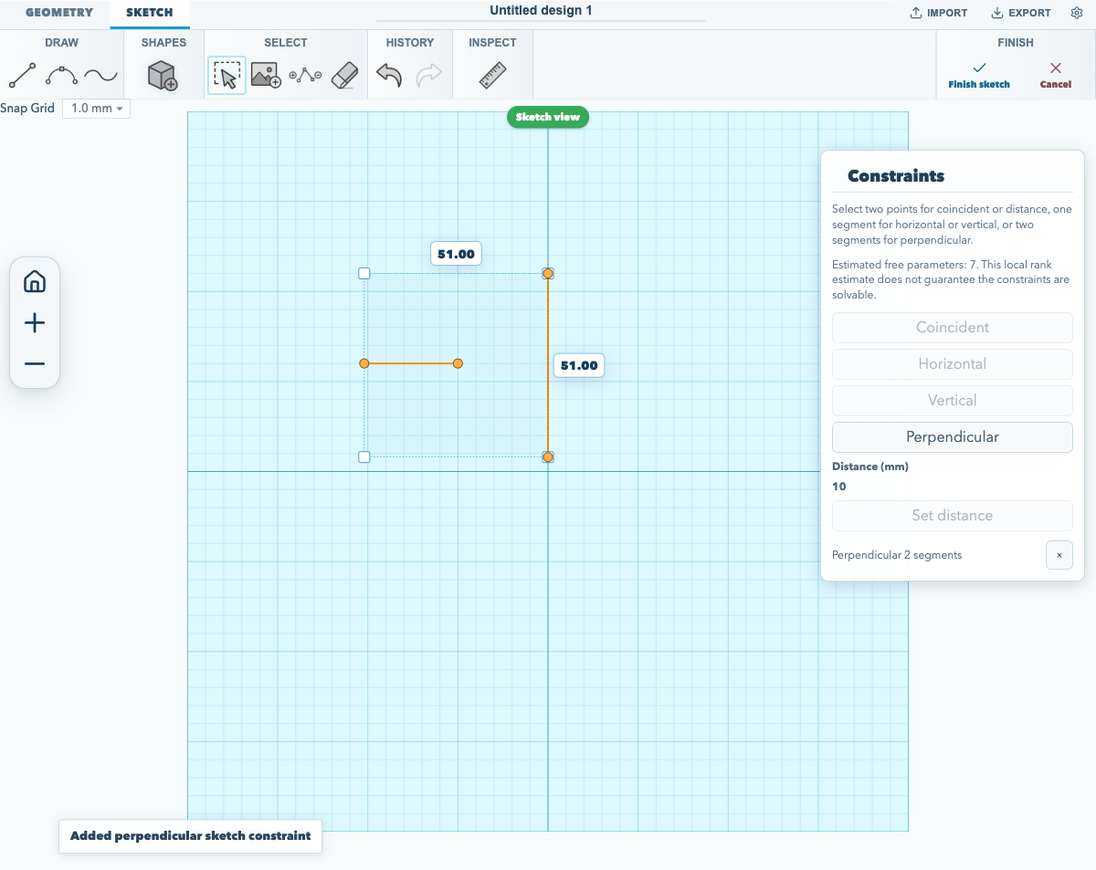
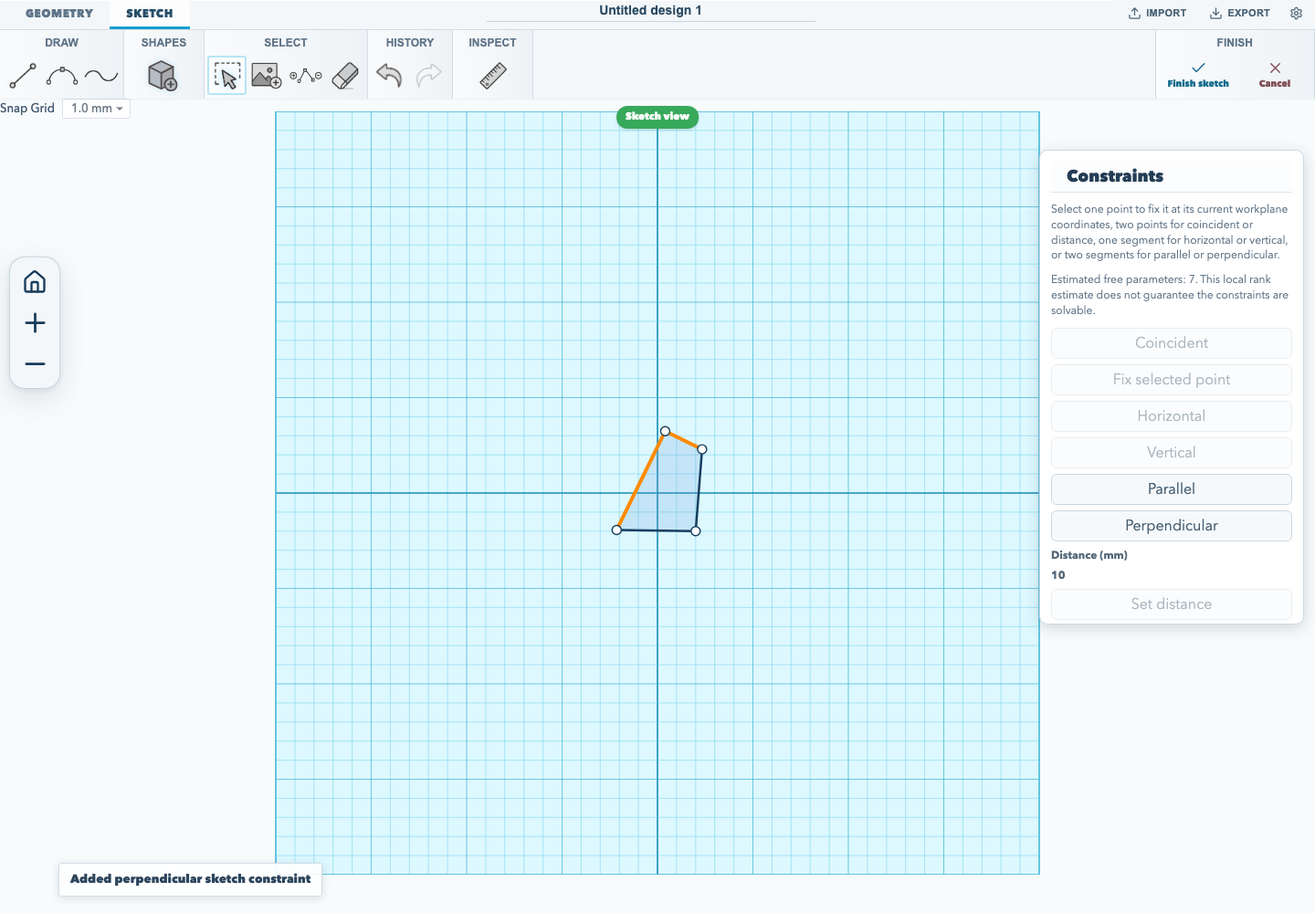
docs: add perpendicular constraint workflow coverage (#275)

diff --git a/docs/DOCUMENTATION_SUITE_SPEC.md b/docs/DOCUMENTATION_SUITE_SPEC.md
@@ -7,7 +7,11 @@ owner: "Contributors"
 
 # Documentation suite specification
 
-**Current implementation status:** The searchable VitePress site is published on GitHub Pages at the canonical URL below. It includes generated TypeScript, Python, and engine references in the Pages artifact, source-linked package guides, tested editor quick-start and edit/export workflows, one face-drafting workflow, and one sketch-constraints workflow, generated format/configuration/CLI/MCP references, Mermaid rendering, accessibility and browser smoke checks, and a repository-controlled historical inbound-link inventory. The face-drafting guide's browser acceptance covers one supported inspector case: face 1, local +Z pull axis, and -5°; it captures a screenshot of the applied result. This single case does not establish broad face/axis/angle support. `docs/guides/sketch-constraints.md` has browser acceptance for one Parallel workflow: it selects two segments, aligns their directions, and preserves their offset. `tests/browser/sketch-parallel-constraint.test.mjs` captures `docs/screenshots/sketch-parallel-constraint.png`. This single constraint case does not establish broader sketch-constraint or task-workflow coverage. All maintained `docs/**/*.md` pages and staged generated package-reference pages now require stable slug, title, audience, and owner front matter. Changed-source diagnostics report owning pages or missing ownership for selected public API and package source trees, including the TypeScript and Python example trees included in the package examples guide. The only editor source mapped so far is `apps/web/src/components/SketchForgeEditor.tsx`, which maps to the edit-and-export guide; other editor/UI sources and symbols remain unmapped. The docs checker also enforces source/test/CI metadata for 23 supported-language runnable fences in maintained documentation: each fence must include its exact tracked source with linked test and CI command, or carry a concrete reasoned exemption. This bounded check does not cover other fence languages, all runnable content, or ownership for every content source. The configuration registry/reference covers supported server/container, TypeScript/Python client, local MCP, and desktop runtime settings, including `SKETCHFORGE_DESKTOP_PORT`; omission checks compare declared rows with the tracked readers in those scopes. `SKETCHFORGE_DESKTOP_DEV_URL` is a launcher-injected internal handoff and `NODE_PATH` is pass-through, so neither is a supported setting; other build, test, CI, launcher, and pass-through environment reads outside the declared inventory are out of scope. Pull-request docs CI generates references before validation and build; trusted writers refresh allowlisted outputs on eligible same-repository PR branches and create a repair PR when a successful default-branch docs run finds stale tracked output. Fork PRs and PRs changing workflow-control files use the generated artifact fallback and do not get an automated branch update. The REST operation registry contains 32 operations; generated OpenAPI describes 22 and explains why 10 remain omitted. `PATCH /api/v1/shapes` can rebuild a persisted sketch sweep from an updated profile, but this operation remains outside OpenAPI because the combined face-color and profile validation is not fully represented there. Broader task-oriented workflows, complete REST contracts, all-language runnable-block coverage, and ownership coverage for other content sources remain open requirements. See the phases and acceptance criteria below for durable scope and evidence.
+**Current implementation status:** The searchable VitePress site is published on GitHub Pages at the canonical URL below. It includes generated TypeScript, Python, and engine references in the Pages artifact, source-linked package guides, tested editor quick-start and edit/export workflows, one face-drafting workflow, two sketch-constraint workflows, generated format/configuration/CLI/MCP references, Mermaid rendering, accessibility and browser smoke checks, and a repository-controlled historical inbound-link inventory. The face-drafting guide's browser acceptance covers one supported inspector case: face 1, local +Z pull axis, and -5°; it captures a screenshot of the applied result. This single case does not establish broad face/axis/angle support. The sketch-constraints guide has browser acceptance for Parallel and Perpendicular workflows in `tests/browser/sketch-parallel-constraint.test.mjs`, which captures screenshots in `docs/screenshots/sketch-parallel-constraint.png` and `docs/screenshots/sketch-perpendicular-constraint.png`. The Perpendicular workflow distorts one corner, selects the adjoining segments, applies the relation, and verifies a 90° result. These two cases do not establish full sketch-constraint or task-workflow coverage.
+
+All maintained `docs/**/*.md` pages and staged generated package-reference pages require stable slug, title, audience, and owner front matter. Changed-source diagnostics report owning pages or missing ownership for selected public API and package source trees, including the TypeScript and Python example trees included in the package examples guide. Selected editor sources now include `apps/web/src/components/SketchForgeEditor.tsx`, `apps/web/src/components/SketchWorkspace.tsx`, and `apps/web/src/lib/sketchConstraints.ts`; the editor component maps to both edit-and-export and sketch-constraints guides. Other editor/UI sources and symbols remain unmapped. The docs checker also enforces source/test/CI metadata for 23 supported-language runnable fences in maintained documentation: each fence must include its exact tracked source with linked test and CI command, or carry a concrete reasoned exemption. This bounded check does not cover other fence languages, all runnable content, or ownership for every content source.
+
+The configuration registry/reference covers supported server/container, TypeScript/Python client, local MCP, and desktop runtime settings, including `SKETCHFORGE_DESKTOP_PORT`; omission checks compare declared rows with the tracked readers in those scopes. `SKETCHFORGE_DESKTOP_DEV_URL` is a launcher-injected internal handoff and `NODE_PATH` is pass-through, so neither is a supported setting; other build, test, CI, launcher, and pass-through environment reads outside the declared inventory are out of scope. Pull-request docs CI generates references before validation and build; trusted writers refresh allowlisted outputs on eligible same-repository PR branches and create a repair PR when a successful default-branch docs run finds stale tracked output. Fork PRs and PRs changing workflow-control files use the generated artifact fallback and do not get an automated branch update. The REST operation registry contains 32 operations; generated OpenAPI describes 22 and explains why 10 remain omitted. `PATCH /api/v1/shapes` can rebuild a persisted sketch sweep from an updated profile, but this operation remains outside OpenAPI because the combined face-color and profile validation is not fully represented there. Broader task-oriented workflows, complete REST contracts, all-language runnable-block coverage, and ownership coverage for other content sources remain open requirements. See the phases and acceptance criteria below for durable scope and evidence.
 **Retained face-draft status:** `PATCH /api/v1/shapes` can store or clear one `faceDraft` on an exact retained sketch extrusion, single-solid sketch sweep, or plain single-region full-turn sketch revolve. Source-profile edits replay it only when exactly one planar face matches the saved source normal; missing or ambiguous matches fail atomically. `GET /faces?topology=exact` lists analytic B-rep revolve faces while the default face listing remains mesh-based. A different source face must be selected only after clearing the draft. Adding an edge treatment, prism draft, or shell to a face-drafted shape is refused before writing because these feature combinations have no replay order. Prism drafts and edge-treatment metadata are also rejected together in either mutation order; shelling is refused when persisted draft or treatment metadata exists. The bounded behavior is covered by `tests/unit/engineParametricRecompute.test.ts` and `tests/unit/apiV1ShapeRoundTrip.test.ts`; it does not establish general topology lineage. The editor's arbitrary-shape face-draft workflow remains baked. This does not change the OpenAPI baseline: 22 of 32 operations are documented, and the shapes operation remains omitted because combined face-color and profile validation is not represented faithfully.
 
 **Scope:** Public product, developer, API, package, and operator documentation
@@ -273,7 +277,7 @@ its Ubuntu system dependencies before running the build.
 
 - The TypeScript client and engine references are built from declarations; the Python reference is built from public exports, annotations, and docstrings. Current generated package references are staged at `.docs-site/docs/reference/` and validated there for the Pages artifact. Package guide pages include the registry-facing READMEs as canonical prose.
 - Python references include type checks and symbol-level source links. The API docs link to operation sources and examples; stable face IDs and face colors are available from the Python client.
-- `docs/guides/package-examples.md` includes existing client and Python macro examples. Integration jobs execute those package examples against a local API. Browser acceptance covers the editor quick-start, the create, edit, save, reload, and export workflow in `docs/guides/edit-and-export-model.md`, one supported face-drafting case documented in `docs/guides/face-drafting.md` (face 1, local +Z, -5°) with screenshot evidence, and the Parallel constraint workflow in `docs/guides/sketch-constraints.md`. The latter selects two sketch segments, applies Parallel, verifies the constraint, and captures `docs/screenshots/sketch-parallel-constraint.png` in `tests/browser/sketch-parallel-constraint.test.mjs`; it does not prove broader sketch-constraint support. Other face-drafting combinations and most task-oriented editor workflows remain untested.
+- `docs/guides/package-examples.md` includes existing client and Python macro examples. Integration jobs execute those package examples against a local API. Browser acceptance covers the editor quick-start, the create, edit, save, reload, and export workflow in `docs/guides/edit-and-export-model.md`, one supported face-drafting case documented in `docs/guides/face-drafting.md` (face 1, local +Z, -5°) with screenshot evidence, and Parallel and Perpendicular constraint workflows in `docs/guides/sketch-constraints.md`. The Perpendicular case distorts a rectangle corner, selects the adjoining segments, applies the constraint, verifies the resulting 90° angle, and captures `docs/screenshots/sketch-perpendicular-constraint.png`; neither case proves full sketch-constraint support. Other face-drafting combinations and most task-oriented editor workflows remain untested.
 - Build TypeScript and engine declaration references from the package build; generate Python references from public exports and annotations/docstrings; convert examples into source includes and execute them in CI.
 - Reuse package README content for package registries and the site from a shared source or generated subset.
 
@@ -292,7 +296,7 @@ its Ubuntu system dependencies before running the build.
 ### Phase 4: formats, configuration, CLI, and workflow guides
 
 - The parameterized-shape, CLI, operator-configuration, `.skf`, and MCP references are regenerated from their code or metadata inputs before validation. Eligible same-repository PRs receive changed allowlisted tracked outputs automatically; output drift alone does not fail CI. STEP color guidance describes the supported import behavior.
-- Package examples, the editor quick-start and edit/export workflow, one supported face-drafting case, and one Parallel constraint workflow are tested. Broader task-oriented guides and corresponding workflow checks remain outstanding.
+- Package examples, the editor quick-start and edit/export workflow, one supported face-drafting case, and Parallel and Perpendicular constraint workflows are tested. Broader task-oriented guides and corresponding workflow checks remain outstanding.
 - Structured registries and generated references cover parameterized shapes, supported server/container, desktop, client/MCP runtime settings, CLI entry points, project formats, and MCP tool schemas. The desktop inventory includes `SKETCHFORGE_DESKTOP_PORT`; launcher handoff, build/test/CI, and pass-through environment reads remain outside the supported-settings inventory.
 - Generate references and add round-trip/command/tool smoke examples.
 - Retain human-authored tutorials for context and task flow; embed live examples and generated UI labels.
@@ -311,7 +315,7 @@ its Ubuntu system dependencies before running the build.
 - **Cross-links between documentation and references — closed:** task guides, package pages, API references, and generated symbol references link to related concepts and are checked for local-link validity.
 - **Engine package documentation — closed:** The npm README and generated engine reference explain that the full exact-CAD dependency stack requires Node.js 24 even though the package manifest declares `>=20`, map the public `Engine` operations, and state that callers must provide an existing project. Focused tests check the manifest/lockfile boundary, execute the example, and verify generated-reference content. Aligning the package manifest requires a release decision because it would drop Node.js 20 support.
 - **Generated-output automation — implemented with limits:** PR docs CI generates before verification/build and uploads generated output. The trusted artifact-only PR writer commits allowlisted changes to eligible same-repository PR branches, then dispatches CI, docs, and title checks for the exact resulting commit SHA. After a successful default-branch docs build, a separate trusted writer validates outputs against the current main SHA and creates or refreshes a bot repair PR if tracked outputs differ; it never writes directly to protected `main`. Fork PRs and PRs changing workflow controls use the generated artifact fallback and require maintainers to apply any needed generated changes.
-- **Task-oriented coverage and source/example ownership — open:** the edit-and-export guide has browser acceptance, and the face-drafting guide has browser acceptance for one supported inspector case: face 1, local +Z, and -5°, with a screenshot in `docs/screenshots/face-draft-browser.png`. The sketch-constraints guide has browser acceptance for one Parallel workflow: it selects two segments, aligns their directions, preserves their offset, and captures `docs/screenshots/sketch-parallel-constraint.png`. These are bounded cases; broader face-drafting combinations, sketch constraints, and task-oriented editor workflows remain untested. Supported server/container, desktop, TypeScript/Python client, and local MCP runtime settings have registry-backed rows with source and owner links, and omission checks cover their tracked readers. Desktop configuration ownership is met for `SKETCHFORGE_DESKTOP_PORT`, which has a registry row, implementation source, and owner page; launcher handoff and pass-through values remain outside the supported inventory. Stable ownership metadata is enforced for all maintained `docs/**/*.md` pages and staged generated package-reference pages. Changed-source-to-page diagnostics are implemented for the REST route tree, TypeScript client source and MCP trees, engine source, and Python client source; they also map the TypeScript/Python example trees included in `docs/guides/package-examples.md`, whose examples run in existing integration suites. The only editor source mapped so far is the primary `apps/web/src/components/SketchForgeEditor.tsx` component, which maps to the edit-and-export guide; other editor/UI sources are not mapped. A separate docs check covers 23 supported-language runnable fences in maintained docs: each must include its exact tracked source plus a test and CI command, or give a concrete reason for exemption. This does not cover other fence languages or prove all runnable content is exercised. Source diagnostics remain path-pattern based, permit overlapping matches, and only check changes within mapped roots; semantic ownership, other examples, and source symbols remain out of scope. End-to-end coverage from every changed source to its owning page and tested example remains open.
+- **Task-oriented coverage and source/example ownership — open:** the edit-and-export guide has browser acceptance, and the face-drafting guide has browser acceptance for one supported inspector case: face 1, local +Z, and -5°, with a screenshot in `docs/screenshots/face-draft-browser.png`. The sketch-constraints guide has browser acceptance for Parallel and Perpendicular workflows, with screenshots in `docs/screenshots/sketch-parallel-constraint.png` and `docs/screenshots/sketch-perpendicular-constraint.png`; the latter changes one corner so the adjoining segments start non-perpendicular, applies the constraint, and checks the result is 90°. These bounded cases do not cover all face-drafting combinations, sketch constraints, or task-oriented editor workflows. Supported server/container, desktop, TypeScript/Python client, and local MCP runtime settings have registry-backed rows with source and owner links, and omission checks cover their tracked readers. Desktop configuration ownership is met for `SKETCHFORGE_DESKTOP_PORT`, which has a registry row, implementation source, and owner page; launcher handoff and pass-through values remain outside the supported inventory. Stable ownership metadata is enforced for all maintained `docs/**/*.md` pages and staged generated package-reference pages. Changed-source-to-page diagnostics are implemented for the REST route tree, TypeScript client source and MCP trees, engine source, and Python client source; they also map the TypeScript/Python example trees included in `docs/guides/package-examples.md`, whose examples run in existing integration suites. The editor sources mapped to the sketch-constraints guide are `SketchForgeEditor.tsx`, `SketchWorkspace.tsx`, and `sketchConstraints.ts`; `SketchForgeEditor.tsx` maps to both that guide and edit-and-export. Other editor/UI sources remain unmapped. A separate docs check covers 23 supported-language runnable fences in maintained docs: each must include its exact tracked source plus a test and CI command, or give a concrete reason for exemption. This does not cover other fence languages or prove all runnable content is exercised. Source diagnostics remain path-pattern based, permit overlapping matches, and only check changes within mapped roots; semantic ownership, other examples, and source symbols remain out of scope. End-to-end coverage from every changed source to its owning page and tested example remains open.
 - **Complete REST contracts — open:** the default branch has runtime-backed contracts for 22 of 32 registered operations; 10 remain omitted with reasons. Additional operation schemas and runtime validations remain outstanding. `PATCH /api/v1/shapes` sweep-profile updates remain omitted because the combined face-color and profile validation is not faithfully represented.
 
 ## 10. Acceptance criteria
@@ -325,11 +329,11 @@ green narrow check does not imply that the broader requirement is complete.
 3. **Met:** The site loads assets and deep links under `/SketchForge-3D/`; VitePress is configured for that project prefix and built-site tests serve and inspect the artifact under it.
 4. **Open:** Route registration parity is enforced, and 22 of 32 operations have runtime-backed request/response contracts and appear in generated OpenAPI. Ten remain explicitly omitted. `POST /api/v1/interference` contracts ID trimming/uniqueness, finite nonnegative clearance, exact/tessellated report precision, and bounded-limit errors. `POST /api/v1/parts` contracts trimmed target IDs and the shape-summary split response. `PATCH /api/v1/shapes` supports `sketchProfile` rebuilds by output shape ID or persisted `sketchSourceId`, but remains omitted because the combined request validation is not faithfully represented. It also stores or clears one `faceDraft` on an exact retained sketch extrusion, single-solid sketch sweep, or plain single-region full-turn sketch revolve and replays it after a source-profile edit only when exactly one planar face matches the saved normal; missing or ambiguous matches fail atomically. `GET /faces?topology=exact` lists analytic B-rep revolve faces while the default face listing remains mesh-based. The editor's arbitrary-shape face-draft workflow remains baked.
 5. **Met for published references and the declared supported configuration inventory:** TypeScript, Python, engine, CLI, supported server/container, desktop (`SKETCHFORGE_DESKTOP_PORT`), TypeScript/Python client, local MCP settings, shape, MCP, and `.skf` references are generated or checked from declarations, exports, validators, readers, registries, or package metadata. Configuration omission checks compare registry entries with the tracked server/container, desktop, and client/MCP reader set. Build/test/CI, launcher handoff, pass-through, and other environment reads outside the declared supported inventory remain out of scope; not every environment variable is claimed to be supported configuration.
-6. **Partial:** The TypeScript and Python package examples included in `docs/guides/package-examples.md` are sourced from repository files, mapped to that owning page, and exercised by their package integration suites; MCP examples are sourced and exercised in CI. The editor quick-start and create/edit/save/reload/export guide have browser acceptance. The face-drafting guide has browser acceptance for one supported inspector case (face 1, local +Z, -5°) with screenshot evidence. The sketch-constraints guide has browser acceptance for one Parallel workflow that selects two segments, aligns their directions, and preserves their offset, with screenshot evidence in `docs/screenshots/sketch-parallel-constraint.png`. These narrow cases do not establish broad face/axis/angle support, general sketch-constraint support, or broader task-workflow coverage. The local-project MCP shell command is included from and executed as the same fixture. A docs check validates 23 supported-language runnable fences in maintained documentation: each has exact source inclusion with a named test and CI command, or a concrete reasoned exemption. Exemptions do not establish execution coverage, and other fence languages and runnable content outside this bounded set are not covered.
-7. **Partial:** Required checks fail on missing includes and broken internal links, route registry mismatches, selected example failures, and unregistered settings found in the tracked server/container, desktop, and client/MCP runtime-reader sets. Generated references are regenerated in CI and eligible same-repository pull requests receive the changed allowlisted outputs automatically; drift alone does not fail the docs build. Changed-source diagnostics report owning pages or missing owners for changed files in the REST route, TypeScript client, engine, Python client, and the TypeScript/Python example trees included in the package examples guide. The only editor source mapped so far is the primary `apps/web/src/components/SketchForgeEditor.tsx` component, which maps to the edit-and-export guide; other editor/UI sources remain unmapped. The runnable-fence check covers 23 maintained-doc fences in supported languages using exact source/test/CI links or concrete exemptions; it does not cover other languages or prove every runnable sample executes. Source mapping remains path-pattern based, may return overlapping pages, and does not validate semantic ownership; other examples and source-to-example ownership are not fully covered. Build/test/CI, launcher handoff, and pass-through environment reads remain outside the supported configuration inventory.
+6. **Partial:** The TypeScript and Python package examples included in `docs/guides/package-examples.md` are sourced from repository files, mapped to that owning page, and exercised by their package integration suites; MCP examples are sourced and exercised in CI. The editor quick-start and create/edit/save/reload/export guide have browser acceptance. The face-drafting guide has browser acceptance for one supported inspector case (face 1, local +Z, -5°) with screenshot evidence. The sketch-constraints guide has browser acceptance for Parallel and Perpendicular workflows, with screenshot evidence in `docs/screenshots/sketch-parallel-constraint.png` and `docs/screenshots/sketch-perpendicular-constraint.png`. The Perpendicular workflow starts from a distorted corner, applies the relation to adjacent segments, and verifies a 90° angle. These narrow cases do not establish broad face/axis/angle support, all sketch constraints, or broader task-workflow coverage. The local-project MCP shell command is included from and executed as the same fixture. A docs check validates 23 supported-language runnable fences in maintained documentation: each has exact source inclusion with a named test and CI command, or a concrete reasoned exemption. Exemptions do not establish execution coverage, and other fence languages and runnable content outside this bounded set are not covered.
+7. **Partial:** Required checks fail on missing includes and broken internal links, route registry mismatches, selected example failures, and unregistered settings found in the tracked server/container, desktop, and client/MCP runtime-reader sets. Generated references are regenerated in CI and eligible same-repository pull requests receive the changed allowlisted outputs automatically; drift alone does not fail the docs build. Changed-source diagnostics report owning pages or missing owners for changed files in the REST route, TypeScript client, engine, Python client, TypeScript/Python example trees, and three selected editor sources: `SketchForgeEditor.tsx`, `SketchWorkspace.tsx`, and `sketchConstraints.ts`. The editor component maps to both the edit-and-export and sketch-constraints guides. Other editor/UI sources remain unmapped. The runnable-fence check covers 23 maintained-doc fences in supported languages using exact source/test/CI links or concrete exemptions; it does not cover other languages or prove every runnable sample executes. Source mapping remains path-pattern based, may return overlapping pages, and does not validate semantic ownership; other examples and source-to-example ownership are not fully covered. Build/test/CI, launcher handoff, and pass-through environment reads remain outside the supported configuration inventory.
 8. **Met for accessibility basics:** Built-artifact checks cover local search, keyboard navigation, skip navigation, visible focus, landmarks/headings, mobile menu operation, contrast, alt text, accessible search naming, reduced motion, and reflow at 320px. Broader task-workflow checks remain open.
 9. **Partial:** Local links, compatibility routes, and repository-controlled historical inbound paths are checked and inventoried in [`HISTORICAL_INBOUND_LINKS.md`](./HISTORICAL_INBOUND_LINKS.md). The inventory cannot establish external backlinks outside repository history.
-10. **Partial:** All maintained `docs/**/*.md` pages and staged generated package-reference pages have enforced stable slug, title, audience, and owner front matter. Configuration registry entries link to implementation readers and owning pages, and generator failures identify their source input. Changed-source diagnostics map file paths to pages for the REST route tree, TypeScript client source/MCP trees, engine source, Python client source, and the TypeScript/Python example trees included in the package examples guide. The only editor source mapped so far is the primary `apps/web/src/components/SketchForgeEditor.tsx` component, which maps to the edit-and-export guide; other editor/UI sources remain unmapped. Mapped scopes report an error when a changed file has no matching owner pattern. The patterns can overlap and are not semantically verified. A separate lint enforces exact source inclusion with linked test/CI commands or a concrete reasoned exemption for 23 supported-language runnable fences in maintained docs; other fence languages and runnable content are not covered. Diagnostics do not identify changed symbols or map all repository sources, examples, and missing examples to owning pages.
+10. **Partial:** All maintained `docs/**/*.md` pages and staged generated package-reference pages have enforced stable slug, title, audience, and owner front matter. Configuration registry entries link to implementation readers and owning pages, and generator failures identify their source input. Changed-source diagnostics map file paths to pages for the REST route tree, TypeScript client source/MCP trees, engine source, Python client source, TypeScript/Python example trees, and the selected editor sources `SketchForgeEditor.tsx`, `SketchWorkspace.tsx`, and `sketchConstraints.ts`. The editor component maps to both the edit-and-export and sketch-constraints guides. Other editor/UI sources remain unmapped. Mapped scopes report an error when a changed file has no matching owner pattern. The patterns can overlap and are not semantically verified. A separate lint enforces exact source inclusion with linked test/CI commands or a concrete reasoned exemption for 23 supported-language runnable fences in maintained docs; other fence languages and runnable content are not covered. Diagnostics do not identify changed symbols or map all repository sources, examples, and missing examples to owning pages.
 11. **Met with limits:** PR docs CI generates before verification/build and uploads generated files. Trusted artifact-only writers commit changed allowlisted output to eligible same-repository PR branches and create or refresh a repair PR when a successful default-branch build finds stale output; they validate the exact resulting commit SHA. Fork PRs and PRs changing workflow-control files use generated artifacts as fallback and do not receive automatic branch commits. The initial docs run validates/builds the PR source commit; dispatched runs provide checks for generated-output commits.
 
 ## 11. Explicit non-goals

diff --git a/docs/site-migration.md b/docs/site-migration.md
@@ -67,11 +67,12 @@ so stale tracked output alone does not fail the docs check.
 - Browser acceptance covers the editor quick-start and the edit-and-export
   guide's create, edit, save, reload, and export workflow. The face-drafting
   guide covers one inspector case (face 1, local +Z, -5°) with screenshot
-  evidence, and the sketch-constraints guide covers one Parallel workflow with
-  screenshot evidence. These
-  cases do not establish broad face-drafting, sketch-constraint, or task-workflow
-  coverage; broader task-oriented guides and corresponding workflow checks
-  remain incomplete.
+  evidence. The sketch-constraints guide covers Parallel and Perpendicular
+  workflows with screenshots. The Perpendicular case distorts a rectangle
+  corner, applies the relation to adjoining segments, and verifies a 90° result.
+  These cases do not establish broad face-drafting, sketch-constraint, or
+  task-workflow coverage; broader task-oriented guides and corresponding
+  workflow checks remain incomplete.
 
 ## REST API coverage
 
@@ -126,13 +127,14 @@ See the [REST API guide](./REST_API.md#sketch-sweeps) and the
   example trees. The mapping is path-based and is not symbol-level or complete
   repository coverage. The local-project MCP shell command is included from and
   executed as the same source fixture; package examples are sourced and tested.
-  The only editor source mapped so far is
-  `apps/web/src/components/SketchForgeEditor.tsx`, which maps to the
-  edit-and-export guide. Other editor/UI sources, other examples, and all
-  content sources remain open for ownership diagnostics.
+  The sketch-constraints guide maps the selected editor sources
+  `SketchForgeEditor.tsx`, `SketchWorkspace.tsx`, and `sketchConstraints.ts`;
+  `SketchForgeEditor.tsx` also maps to the edit-and-export guide. Other
+  editor/UI sources, other examples, and all content sources remain open for
+  ownership diagnostics.
 - **Task workflows:** expand tested task guides beyond the editor quick-start,
-  edit-and-export, one face-drafting case, one Parallel constraint workflow,
-  package examples, and current REST/MCP workflows.
+  edit-and-export, one face-drafting case, Parallel and Perpendicular
+  constraint workflows, package examples, and current REST/MCP workflows.
 - **Inbound links:** local links, compatibility paths, and repository history
   are inventoried. External backlinks outside repository history cannot be
   established by this inventory.

diff --git a/docs/guides/sketch-constraints.md b/docs/guides/sketch-constraints.md
@@ -4,13 +4,15 @@ title: Constrain sketch geometry
 audience: Editor users
 owner: Editor
 sources:
-  - "apps/web/src/**"
+  - apps/web/src/components/SketchForgeEditor.tsx
+  - apps/web/src/components/SketchWorkspace.tsx
+  - apps/web/src/lib/sketchConstraints.ts
 ---
 
 # Constrain sketch geometry
 
 Sketch constraints relate selected entities while you edit a sketch. This guide
-shows the verified **Parallel** constraint on two sides of a rectangle.
+shows browser-verified **Parallel** and **Perpendicular** constraints.
 
 ## Make two segments parallel
 
@@ -26,6 +28,19 @@ The workflow below checks that the two segments are selected, applies the
 constraint, and confirms the resulting constraint in the editor.
 
 ![Two opposing sketch segments selected with the Parallel constraint applied.](../screenshots/sketch-parallel-constraint.png)
+
+## Make two segments perpendicular
+
+1. Create a rectangular sketch and choose **Edit sketch**.
+2. Drag one corner so the two adjoining sides no longer meet at 90 degrees.
+3. Drag a selection marquee around the midpoints of those two adjoining sides.
+4. Choose **Perpendicular** in the sketch constraint toolbar.
+
+The constraint solver adjusts the selected segments until they meet at 90 degrees.
+The browser acceptance flow checks the initial angle, applies the relation, and
+measures the resulting angle before capturing the editor state.
+
+![Two adjoining sketch segments selected with the Perpendicular constraint applied.](../screenshots/sketch-perpendicular-constraint.png)
 
 Run the browser acceptance flow with:
 

diff --git a/docs/index.md b/docs/index.md
@@ -23,7 +23,7 @@ hero:
 ## Choose a task
 
 - **Create, edit, save, and export a model:** follow the [editable model workflow](/docs/guides/edit-and-export-model.md), then keep the [`.skf` project format guide](/docs/SKF_PROJECT_FORMAT.md) nearby.
-- **Constrain a sketch:** follow the [sketch constraints guide](/docs/guides/sketch-constraints.md) for selecting segments and applying Parallel.
+- **Constrain a sketch:** follow the [sketch constraints guide](/docs/guides/sketch-constraints.md) to select segments and apply Parallel or Perpendicular.
 - **Call the REST API:** start with [API setup, operations, and errors](/docs/REST_API.md), then inspect the [OpenAPI contract](/openapi-v1.json) or use the [TypeScript client reference](/docs/reference/typescript-client.md) and [Python client reference](/docs/reference/python-client.md).
 - **Deploy or configure SketchForge:** start with the [deployment guide](/docs/guides/deployment.md), then use the [operator configuration reference](/docs/OPERATOR_CONFIGURATION.md) for supported values, owners, and implementation readers.
 - **Taper a CAD face:** follow the [face-drafting guide](/docs/guides/face-drafting.md) for selectable pull axes and measured kernel support.
